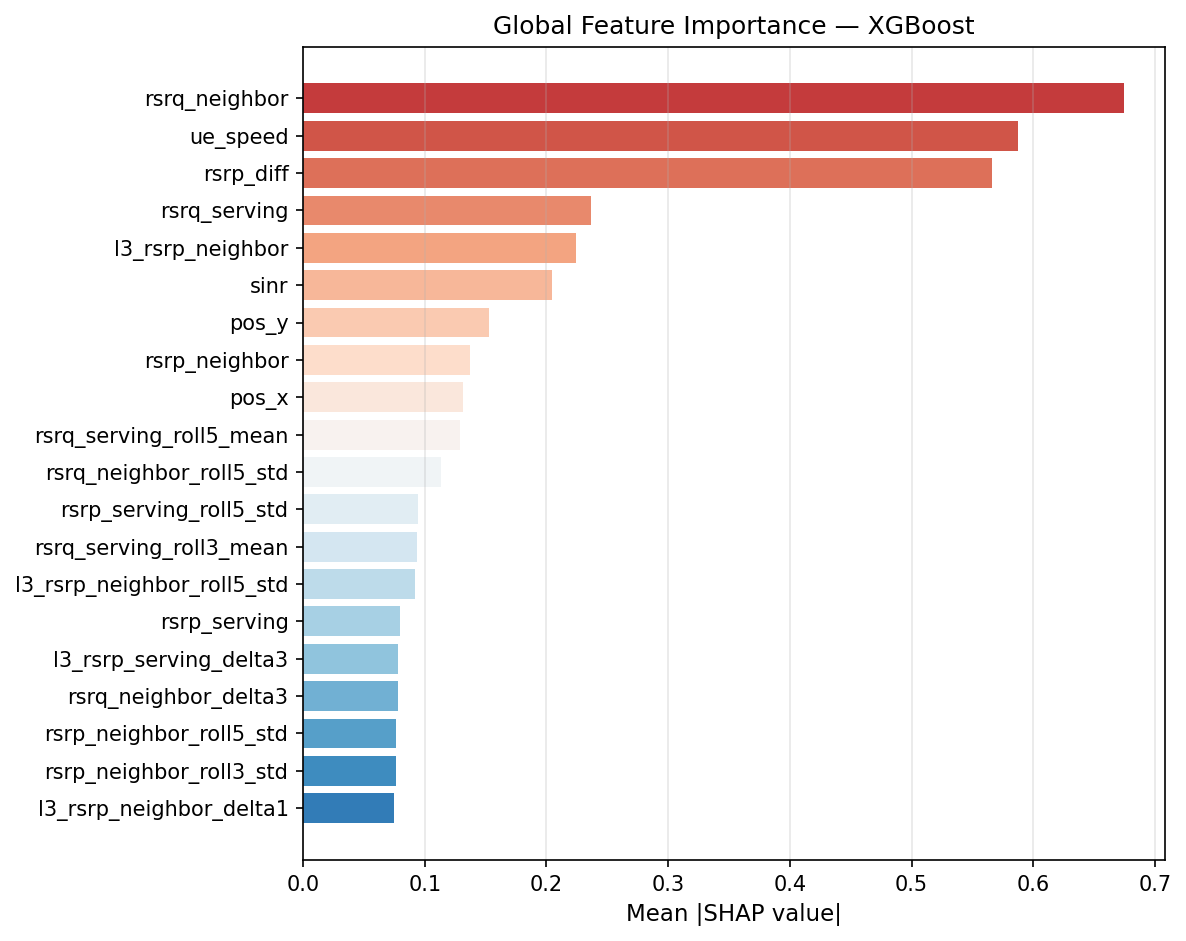
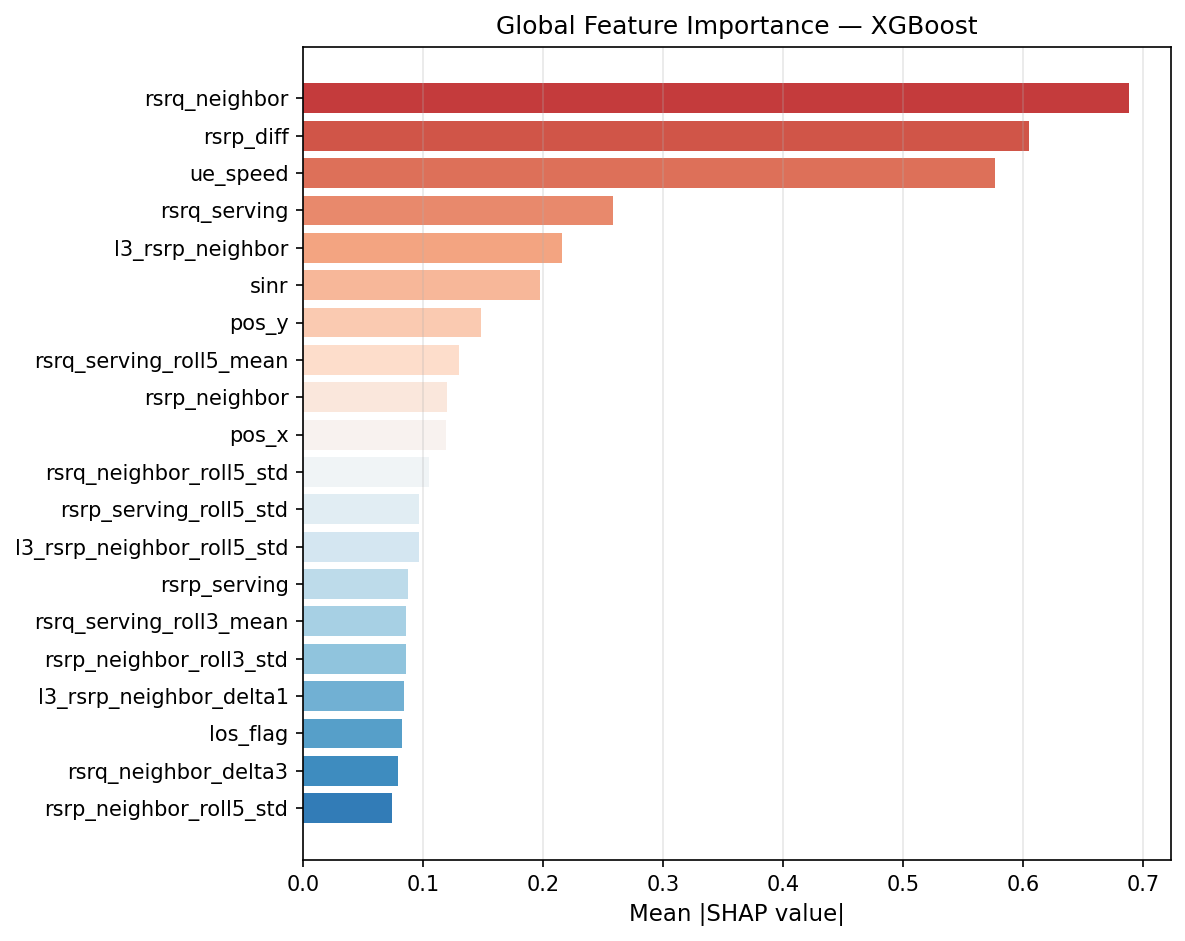
fix: switch MLflow backend from file-store to SQLite
The file-based backend (mlruns/) does not support the MLflow Overview
tab or several comparison features. Switched all tracking URIs to:
  sqlite:///<project_root>/mlflow.db

Changes:
  src/models.py, src/evaluate.py, src/explain.py  — MLF_TRACKING constant
  app/dashboard.py                                 — set_tracking_uri call
  scripts/promote_best_model.py                    — MLF_TRACKING constant
  .gitignore                                       — ignore mlflow.db and mlruns/
  README.md                                        — update mlflow ui command,
                                                     Python query snippet, and
                                                     backend note

Pipeline re-run with fresh SQLite store:
  6 runs logged (LR · RF · XGBoost · LSTM · GRU · Stacking Ensemble)
  Champion: Stacking Ensemble (AUC=0.9119)
  All reports and SHAP plots updated

Usage after this change:
  mlflow ui --backend-store-uri sqlite:///mlflow.db

diff --git a/scripts/promote_best_model.py b/scripts/promote_best_model.py
@@ -23,7 +23,7 @@ sys.path.insert(0, str(ROOT))
 
 CHAMPION_DIR  = ROOT / "models" / "champion"
 MODELS_DIR    = ROOT / "models"
-MLF_TRACKING  = str(ROOT / "mlruns")
+MLF_TRACKING  = f"sqlite:///{ROOT / 'mlflow.db'}"
 MLF_EXP_NAME  = "lte_handover_prediction"
 
 # Mapping from MLflow run name → saved model file(s)
@@ -53,7 +53,7 @@ def promote_via_mlflow():
 
     exp = client.get_experiment_by_name(MLF_EXP_NAME)
     if exp is None:
-        print(f"Experiment '{MLF_EXP_NAME}' not found in mlruns/.")
+        print(f"Experiment '{MLF_EXP_NAME}' not found in mlflow.db.")
         return False
 
     runs = client.search_runs(

diff --git a/app/dashboard.py b/app/dashboard.py
@@ -477,7 +477,7 @@ with tab_mlf:
     st.subheader("MLflow Experiment Runs")
     try:
         import mlflow
-        mlflow.set_tracking_uri(str(ROOT / "mlruns"))
+        mlflow.set_tracking_uri(f"sqlite:///{ROOT / 'mlflow.db'}")
         client = mlflow.tracking.MlflowClient()
         exp    = client.get_experiment_by_name("lte_handover_prediction")
         if exp is None:

diff --git a/src/models.py b/src/models.py
@@ -52,7 +52,7 @@ LABEL   = "handover_soon"
 SEQ_LEN = 10   # LSTM/GRU look-back window (steps)
 
 MLF_EXP_NAME    = "lte_handover_prediction"
-MLF_TRACKING    = str(ROOT / "mlruns")
+MLF_TRACKING    = f"sqlite:///{ROOT / 'mlflow.db'}"
 MLF_RUN_IDS     = MODELS_DIR / "mlflow_run_ids.json"
 
 

diff --git a/src/evaluate.py b/src/evaluate.py
@@ -57,7 +57,7 @@ REPORTS_DIR   = ROOT / "reports"
 LABEL         = "handover_soon"
 SEQ_LEN       = 10
 
-MLF_TRACKING  = str(ROOT / "mlruns")
+MLF_TRACKING  = f"sqlite:///{ROOT / 'mlflow.db'}"
 MLF_RUN_IDS   = MODELS_DIR / "mlflow_run_ids.json"
 
 

diff --git a/src/explain.py b/src/explain.py
@@ -55,7 +55,7 @@ try:
 except ImportError:
     MLFLOW_AVAILABLE = False
 
-MLF_TRACKING = str(ROOT / "mlruns")
+MLF_TRACKING = f"sqlite:///{ROOT / 'mlflow.db'}"
 MLF_RUN_IDS  = MODELS_DIR / "mlflow_run_ids.json"
 
 

diff --git a/README.md b/README.md
@@ -64,7 +64,7 @@ A full machine-learning pipeline that predicts **imminent handover events** (`ha
 │       ├── xgboost.pkl               # Copy of the best-AUC model
 │       └── metadata.json             # Name, AUC, F1, promotion timestamp
 │
-├── mlruns/                           # MLflow local tracking store (auto-created)
+├── mlflow.db                         # MLflow SQLite tracking store (auto-created, gitignored)
 ├── reports/                          # evaluation.txt + roc_curves.png + confusion_matrices.png
 ├── docs/
 │   └── technical_report.md          # Full write-up
@@ -264,18 +264,13 @@ MLflow is an **optional** dependency — the pipeline runs normally without it. 
 pip install mlflow   # already in requirements.txt
 ```
 
-MLflow uses a **local file-store** by default (no server required):
+MLflow uses a **local SQLite database** by default — no server required, and all UI tabs (including the Overview tab) work correctly:
 
 ```
-mlruns/                  ← created automatically on first run
-└── lte_handover_prediction/
-    ├── <run-id-lr>/
-    ├── <run-id-rf>/
-    ├── <run-id-xgb>/
-    ├── <run-id-lstm>/
-    ├── <run-id-gru>/
-    └── <run-id-stacking>/
+mlflow.db            ← created automatically on first run (gitignored)
 ```
+
+> **Why not `mlruns/`?** MLflow's file-based backend does not support the Overview tab or several comparison features. SQLite is the recommended single-machine alternative and requires zero extra setup.
 
 ### What gets logged
 
@@ -290,7 +285,7 @@ Run IDs are saved to `models/mlflow_run_ids.json` during training so that the ev
 
 ```bash
 # From the project root — opens http://localhost:5000
-mlflow ui
+mlflow ui --backend-store-uri sqlite:///mlflow.db
 ```
 
 Then navigate to the **lte_handover_prediction** experiment to compare runs side-by-side, inspect logged parameters, and download plot artifacts.
@@ -302,7 +297,7 @@ Alternatively, view runs directly in the **Streamlit dashboard** under the 🧪 
 ```python
 import mlflow
 
-mlflow.set_tracking_uri("mlruns/")          # or absolute path
+mlflow.set_tracking_uri("sqlite:///mlflow.db")   # relative to CWD
 client = mlflow.tracking.MlflowClient()
 
 exp = client.get_experiment_by_name("lte_handover_prediction")
@@ -320,14 +315,14 @@ for r in runs:
 
 ### Switching to a database or remote tracking server
 
-The local file-store is convenient for development. For a shared team setup, change the tracking URI before running the pipeline:
+The local SQLite store is convenient for development. For a shared team setup, point to a remote tracking server instead:
 
 ```bash
-# SQLite (single-machine, no server)
-export MLFLOW_TRACKING_URI=sqlite:///mlflow.db
-
 # Remote MLflow server
 export MLFLOW_TRACKING_URI=http://your-mlflow-server:5000
+
+# PostgreSQL (production)
+export MLFLOW_TRACKING_URI=postgresql://user:pass@host/mlflow
 ```
 
 No code changes are needed — `src/models.py` and `src/evaluate.py` pick up the env variable automatically.
